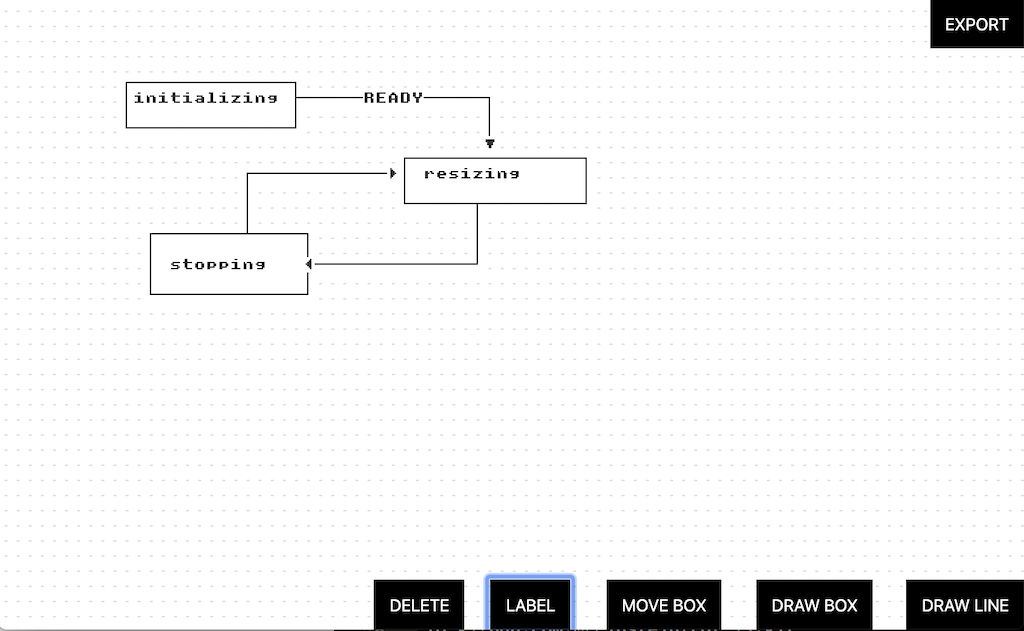
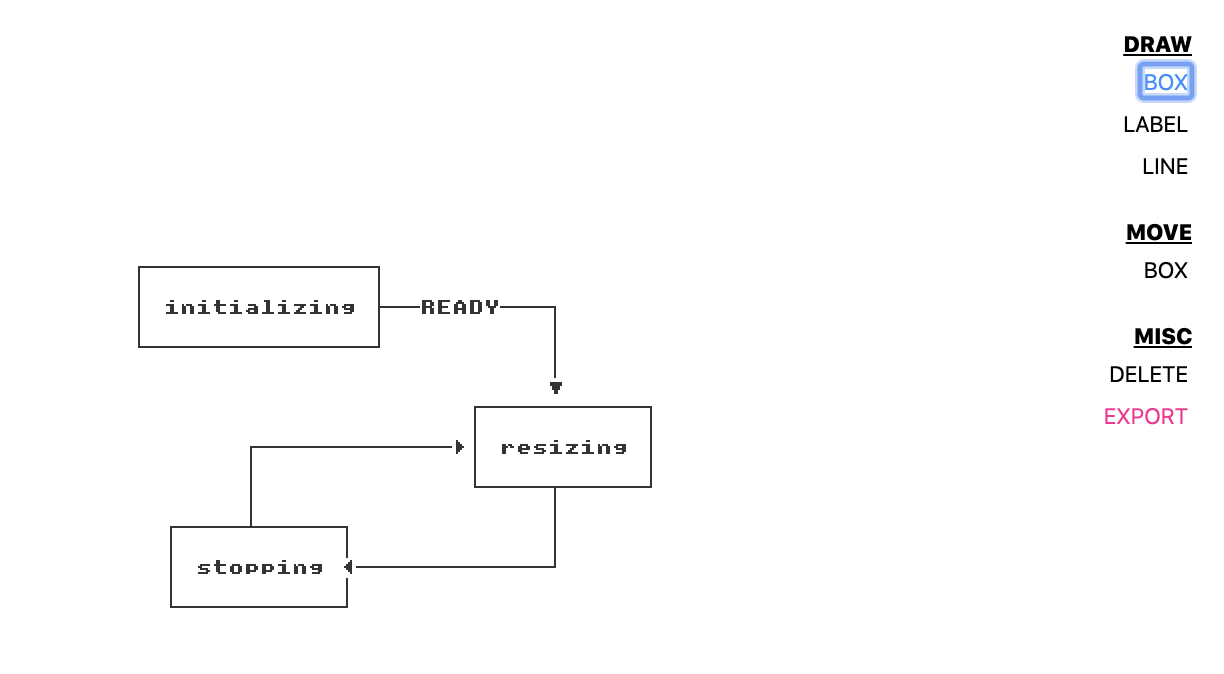
update UI

diff --git a/index.html b/index.html
@@ -21,24 +21,26 @@
       button {
         border: none;
         color: black;
-        padding: 6px;
-        margin: 2px;
+        padding: 0;
+        margin: 4px;
         cursor: pointer;
         text-transform: uppercase;
         user-select: none;
       }
 
+      button:hover {
+        color: deeppink;
+      }
+
       canvas {
-        border: 1px solid #999;
+        border: none;
       }
 
       h4 {
         font: 800 11px system-ui;
         margin: 2px;
-        padding-right: 6px;
         padding: 0;
-        padding-right: 6px;
-        padding-top: 12px;
+        padding-top: 14px;
         text-decoration: underline;
         text-transform: uppercase;
       }
@@ -51,6 +53,7 @@
         flex-direction: column;
         align-items: flex-end;
         background-color: rgba(255,255,255, 0.8);
+        padding-right: 14px;
       }
 
   </style>
@@ -60,18 +63,18 @@
   <textarea placeholder="my text goes here"  style="display: none; position: fixed; bottom: 0px; left: 0; width: 50%; height: 100px;"></textarea>
 
   <div id="controls">
-    <button>export</button>
-
-    <button>delete</button>
-
-    <h4>move</h4>
-    <button>box</button>
 
     <h4>draw</h4>
     <button>box</button>
     <button>label</button>
     <button>line</button>
+
+    <h4>move</h4>
+    <button>box</button>
     
+    <h4>misc</h4>
+    <button>delete</button>
+    <button>export</button>
 
   </div>
 

diff --git a/bundle.js b/bundle.js
@@ -2053,7 +2053,7 @@ void main() {
 
     let display, container;
 
-    const [ exportButton, deleteButton, moveToggle, boxToggle, labelToggle, lineToggle ] = document.querySelectorAll('button');
+    const [ boxToggle, labelToggle, lineToggle, moveToggle, deleteButton, exportButton ] = document.querySelectorAll('button');
 
     lineToggle.onclick = function () {
         asciiService.send('TOGGLE_LINEDRAW');

diff --git a/index.js b/index.js
@@ -14,7 +14,7 @@ const model = {
 
 let display, container
 
-const [ exportButton, deleteButton, moveToggle, boxToggle, labelToggle, lineToggle ] = document.querySelectorAll('button')
+const [ boxToggle, labelToggle, lineToggle, moveToggle, deleteButton, exportButton ] = document.querySelectorAll('button')
 
 lineToggle.onclick = function () {
     asciiService.send('TOGGLE_LINEDRAW')
